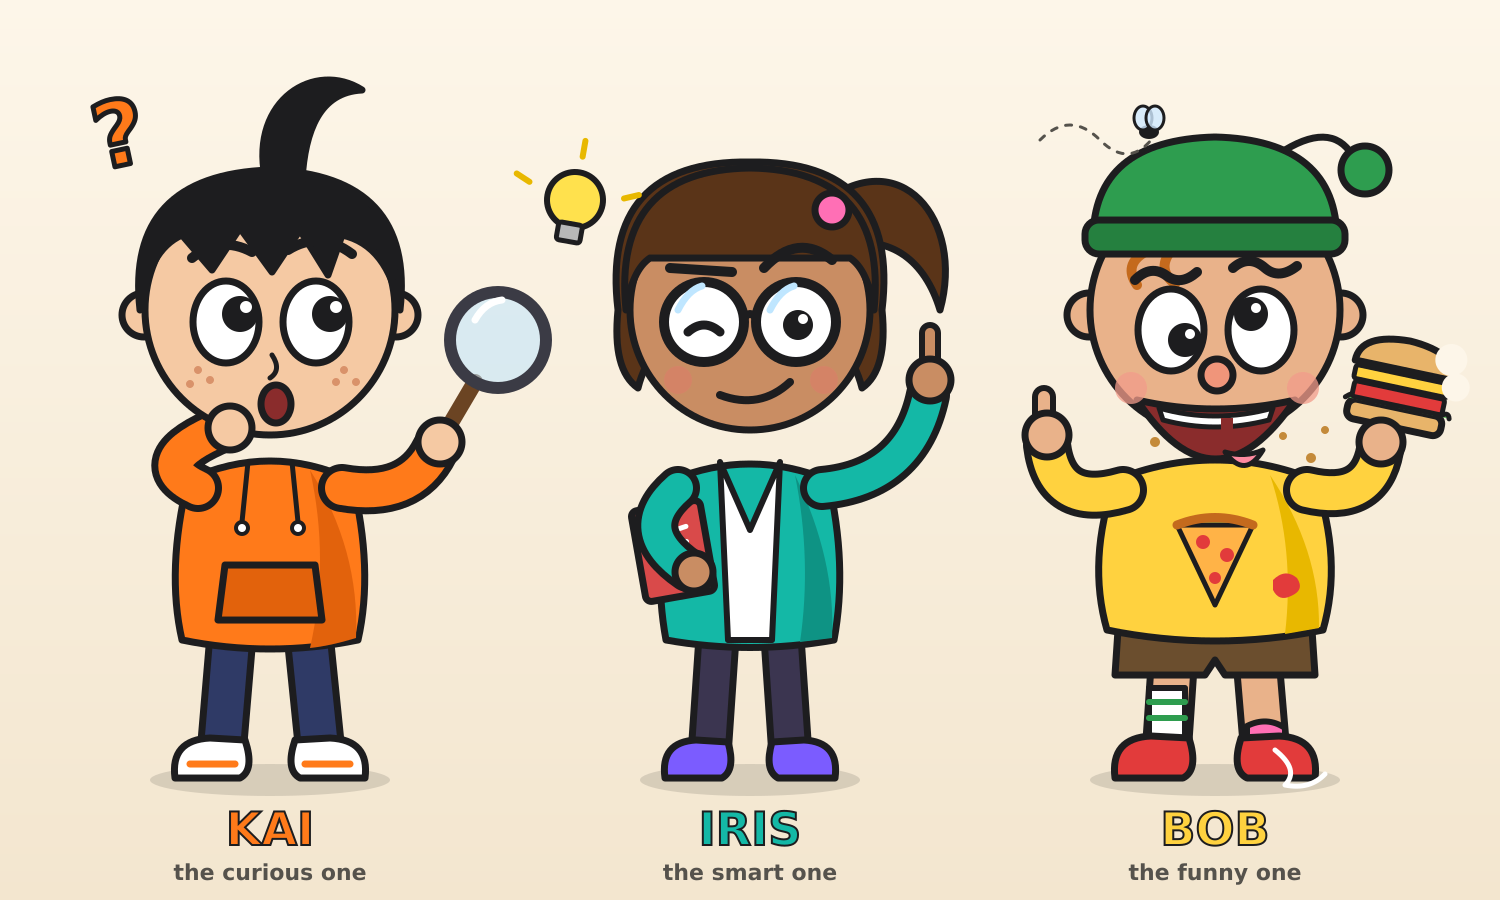
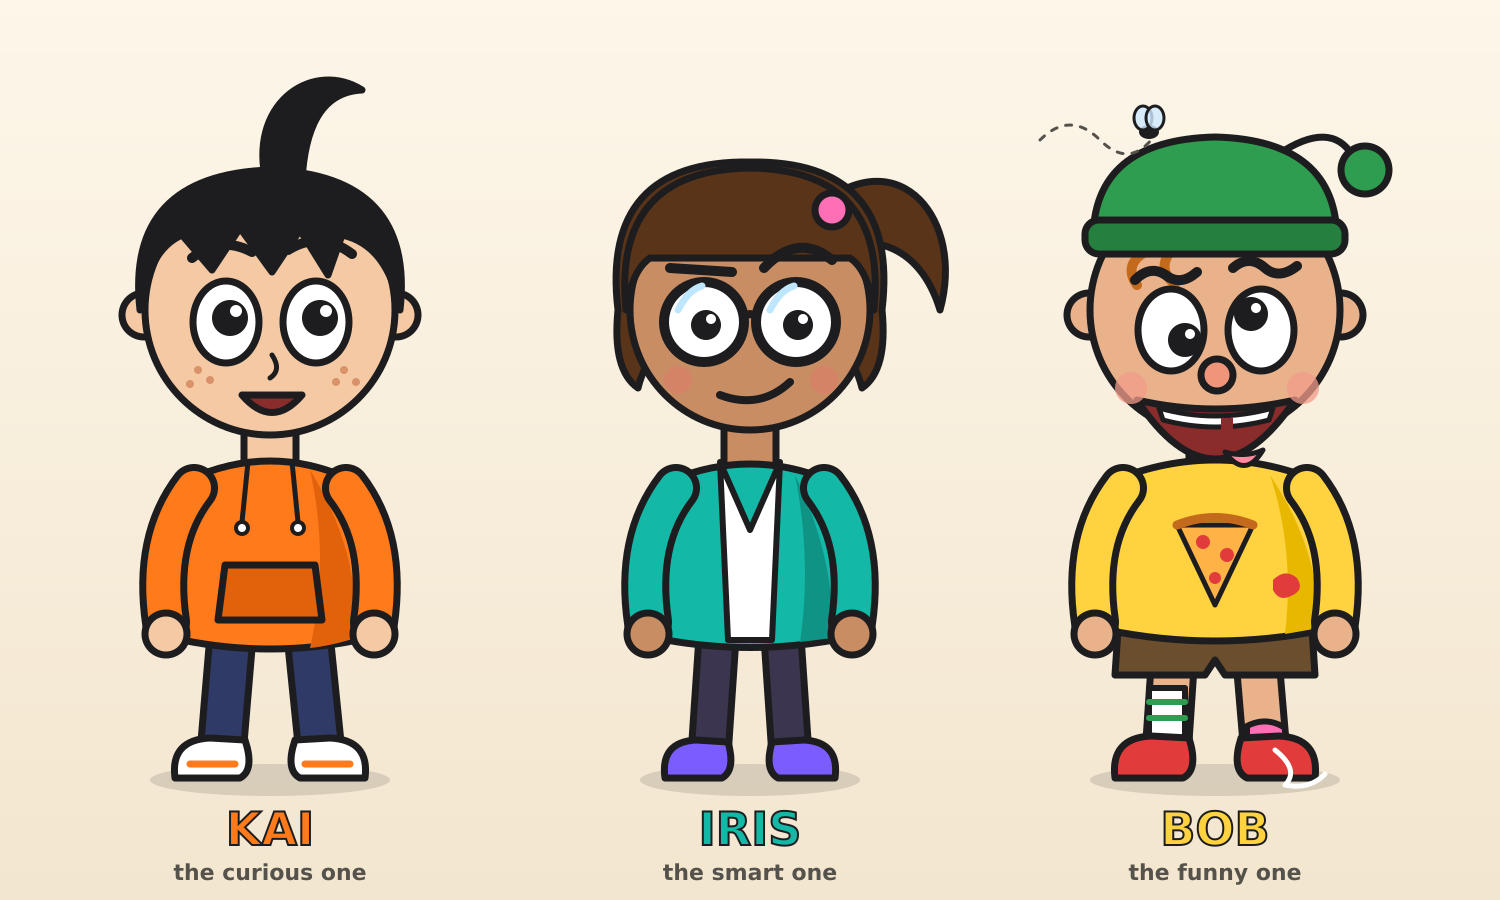
Trio default pose: relaxed arms, no props
Claude-Session: https://claude.ai/code/session_012EPCorERkmRy7kAdAThfec

diff --git a/characters/cast.md b/characters/cast.md
@@ -6,11 +6,14 @@ Same look, same voices, same personalities, always. Only the world around them c
 | | KAI | IRIS | BOB |
 |---|---|---|---|
 | Role | The curious one: asks what the viewer is thinking | The smart one: explains, sometimes overconfident | The funny one: reacts, jokes, gets into trouble |
-| Never changes | Spiky black hair with a giant cowlick, freckles, huge eyes, orange hoodie, white sneakers, magnifying glass | Blunt bangs + ponytail with pink scrunchie, big round glasses, one eyebrow always raised, teal jacket, red book | Green beanie with a floppy pom-pom, wandering goofy eyes, wiggly eyebrows, laughing mouth with a missing tooth, yellow pizza t-shirt with a ketchup stain, brown shorts, mismatched socks, one untied shoelace, always eating, a fly follows him |
+| Never changes | Spiky black hair with a giant cowlick, freckles, huge eyes, orange hoodie, white sneakers | Blunt bangs + ponytail with pink scrunchie, big round glasses, teal jacket over white tee | Green beanie with a floppy pom-pom, wandering goofy eyes, wiggly eyebrows, laughing mouth with a missing tooth, yellow pizza t-shirt with a ketchup stain, brown shorts, mismatched socks, one untied shoelace, a fly follows him |
 | Colour | Orange #FF7A1A | Teal #14B8A6 | Yellow #FFD23F |
 | Typical line | "Wait, why is everyone wearing bedsheets?" | "Those are togas. And we have 24 hours." | "Bread for breakfast? Fine." |
 
 Silhouettes are different on purpose (spiky / ponytail / round with beanie),
 so each one is recognisable in a split second, even small on a phone.
+
+This is the default standing pose: arms relaxed, no props.
+Props and actions (holding, pointing, eating) belong to scenes, never to the character itself.
 
 Backup characters are added to this file when the first story needs them.
